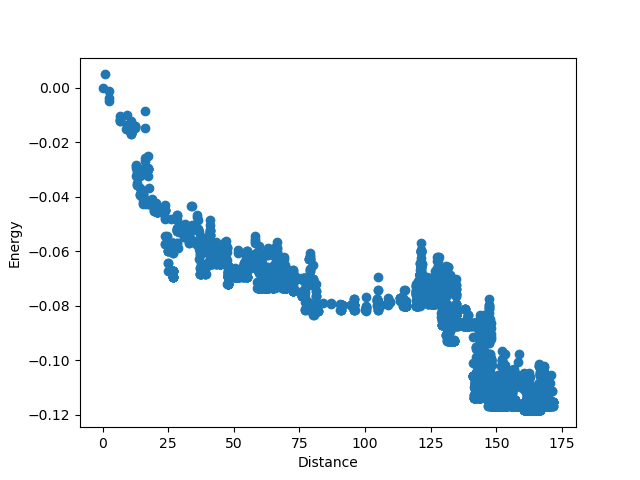
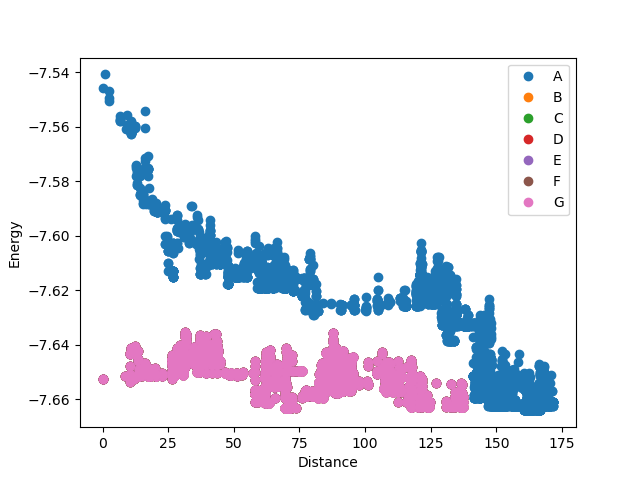
seed may be acting off

diff --git a/analysis/del_e_vs_del_r.py b/analysis/del_e_vs_del_r.py
@@ -27,7 +27,7 @@ import pickle
 from natsort import natsorted
 from sklearn.linear_model import LinearRegression
 
-
+'''
 file_path_en = f'/home/conor/Documents/Research/hoomd_mimse_Ian/hoomd-mimse/output/quen_states_all_A/quen_en.pkl'
 file_path_states = f'/home/conor/Documents/Research/hoomd_mimse_Ian/hoomd-mimse/output/quen_states_all_A/quen_states.pkl'
 # file_path_B = f'/home/conor/Documents/Research/hoomd_mimse_Ian/hoomd-mimse/output/quen_states_all_B/quen_B.pkl'
@@ -70,5 +70,66 @@ plt.plot(distances_A, mimse_en_A, 'o')
 plt.xlabel('Distance')
 plt.ylabel('Energy')
 plt.savefig('del_e_vs_del_r.png')
+'''
+
+output_path = f'{workspace_PATH}/output/'
+
+postfix_arr = ['A','B','C','D','E','F','G']
+
+N = 256 ## number of particles
+DIM = 3 ## dimension of the system
+for k in range(len(postfix_arr)):
+    # get path dirs for states and energies
+    quen_states_path = f'{output_path}/quen_states_all_{postfix_arr[k]}'
+    pkl_state_file = f'quen_states.pkl'
+
+    quen_en_path = f'{output_path}/quen_states_all_{postfix_arr[k]}'
+    pkl_en_file = f'quen_en.pkl'
+
+    # load using pickle
+    with open(join(quen_states_path,pkl_state_file), 'rb') as fi:
+        globals()[f'mimse_state_{postfix_arr[k]}'] = pickle.load(fi)
+
+    with open(join(quen_en_path,pkl_en_file), 'rb') as fi:
+        globals()[f'mimse_en_{postfix_arr[k]}'] = pickle.load(fi)
+
+    # set empty array for distances and energies
+    globals()[f'distances_arr_{postfix_arr[k]}'] = []
+    globals()[f'energies_arr_{postfix_arr[k]}'] = []
+
+
+    # make loaded data into numpy arrays
+    globals()[f'mimse_state_{postfix_arr[k]}'] = np.array(globals()[f'mimse_state_{postfix_arr[k]}'])
+    globals()[f'mimse_en_{postfix_arr[k]}'] = np.array(globals()[f'mimse_en_{postfix_arr[k]}'])
+
+    # set count to 0
+    globals()[f'count_{postfix_arr[k]}'] = 0
+
+    # set up empty array for positions | size: (length of states, N, DIM)
+    globals()[f'positions_big_{postfix_arr[k]}'] = np.zeros((len(globals()[f'mimse_state_{postfix_arr[k]}']), N, DIM))
+
+    # set reference state and energy(first state and energy)
+    ref_state = globals()[f'mimse_state_{postfix_arr[k]}'][0]
+    ref_en = globals()[f'mimse_en_{postfix_arr[k]}'][0]
+
+    for i in range(len(globals()[f'mimse_state_{postfix_arr[k]}'])):
+
+        # calculate distance and append to distances array
+        dist = np.linalg.norm(globals()[f'mimse_state_{postfix_arr[k]}'][i]-ref_state)
+        globals()[f'distances_arr_{postfix_arr[k]}'].append(dist)
+
+        globals()[f'count_{postfix_arr[k]}'] += 1
+        print(f'prog_{postfix_arr[k]}',np.floor((globals()[f'count_{postfix_arr[k]}']/len(globals()[f'mimse_state_{postfix_arr[k]}']))*100))
+
+    plt.figure(0)
+    plt.plot(globals()[f'distances_arr_{postfix_arr[k]}'], globals()[f'mimse_en_{postfix_arr[k]}'], 'o', label = f'{postfix_arr[k]}')
+    plt.xlabel('Distance')
+    plt.ylabel('Energy')
+    plt.legend()
+    
+
+plt.savefig(f'del_e_vs_del_r.png')
+    
+
 
 

diff --git a/analysis/cdf_mimse.py b/analysis/cdf_mimse.py
@@ -7,6 +7,7 @@ import matplotlib
 import pandas as pd
 import h5py
 import re
+import shutil
 
 from os.path import join, isfile
 import os
@@ -201,3 +202,50 @@ output_path = f'{workspace_PATH}/output/'
 
 postfix_arr = ['A','B','C','D','E','F','G']
 
+N = 256 ## number of particles
+DIM = 3 ## dimension of the system
+for k in range(len(postfix_arr)):
+    quen_states_path = f'{output_path}/quen_states_all_{postfix_arr[k]}'
+    pkl_state_file = f'quen_states.pkl'
+
+    with open(join(quen_states_path,pkl_state_file), 'rb') as fi:
+        globals()[f'mimse_state_{postfix_arr[k]}'] = pickle.load(fi)
+
+    globals()[f'distances_arr_{postfix_arr[k]}'] = []
+
+    globals()[f'mimse_state_{postfix_arr[k]}'] = np.array(globals()[f'mimse_state_{postfix_arr[k]}'])
+
+    globals()[f'count_{postfix_arr[k]}'] = 0
+    for i in range(len(globals()[f'mimse_state_{postfix_arr[k]}'])):
+        for j in range(len(globals()[f'mimse_state_{postfix_arr[k]}'])):
+            if (i != j):
+                dist = np.linalg.norm(globals()[f'mimse_state_{postfix_arr[k]}'][i]-globals()[f'mimse_state_{postfix_arr[k]}'][j])
+                globals()[f'distances_arr_{postfix_arr[k]}'].append(dist)
+        globals()[f'count_{postfix_arr[k]}'] += 1
+        print(f'prog_{postfix_arr[k]}',np.floor((globals()[f'count_{postfix_arr[k]}']/len(globals()[f'mimse_state_{postfix_arr[k]}']))*100))
+    globals()[f'distances_arr_{postfix_arr[k]}'] = np.array(globals()[f'distances_arr_{postfix_arr[k]}'])
+
+        # Calculate CDF
+    globals()[f'sorted_dist_{postfix_arr[k]}'] = np.sort(globals()[f'distances_arr_{postfix_arr[k]}'])
+    # print('sorted distances',sorted_distances_A)
+    globals()[f'cdf_{postfix_arr[k]}'] = np.arange(1, len(globals()[f'sorted_dist_{postfix_arr[k]}']) + 1) / len(globals()[f'sorted_dist_{postfix_arr[k]}'])
+
+    print('len cdf',len(globals()[f'cdf_{postfix_arr[k]}']))
+    print('len sorted distances',len(globals()[f'sorted_dist_{postfix_arr[k]}']))
+
+    # Plot CDF
+    plt.figure(0)
+
+    
+
+
+    plt.loglog(globals()[f'sorted_dist_{postfix_arr[k]}'], globals()[f'cdf_{postfix_arr[k]}'],label = f'{postfix_arr[k]}')
+    plt.xlim([4e0, 2e2])
+    plt.ylim([1e-2, 1.4])
+    plt.xlabel('Pairwise Euclidean Distance')
+    plt.ylabel('CDF')
+    plt.title(f'CDF')
+    plt.legend()
+
+plt.savefig(f'new_cdf.png')
+    
